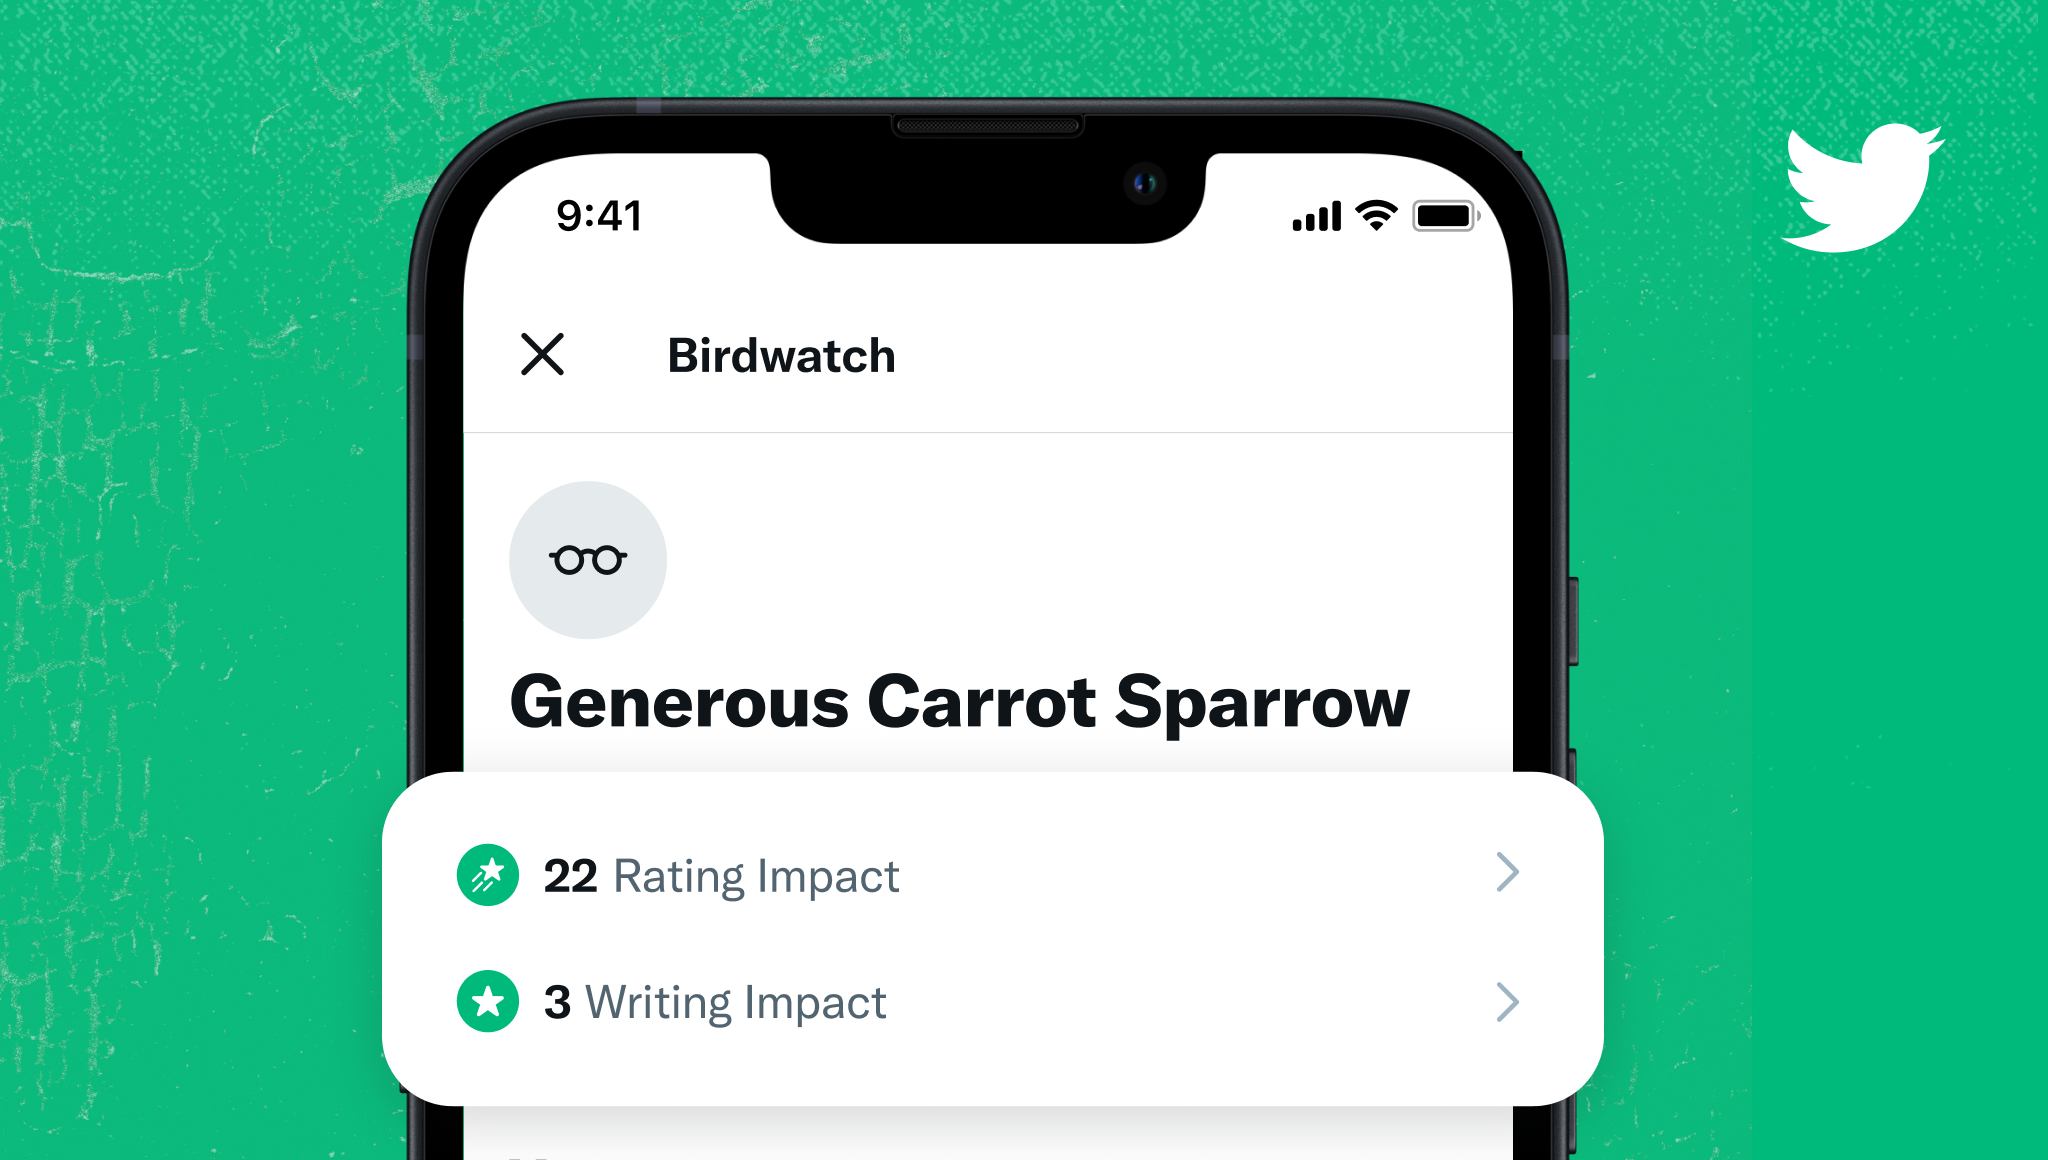
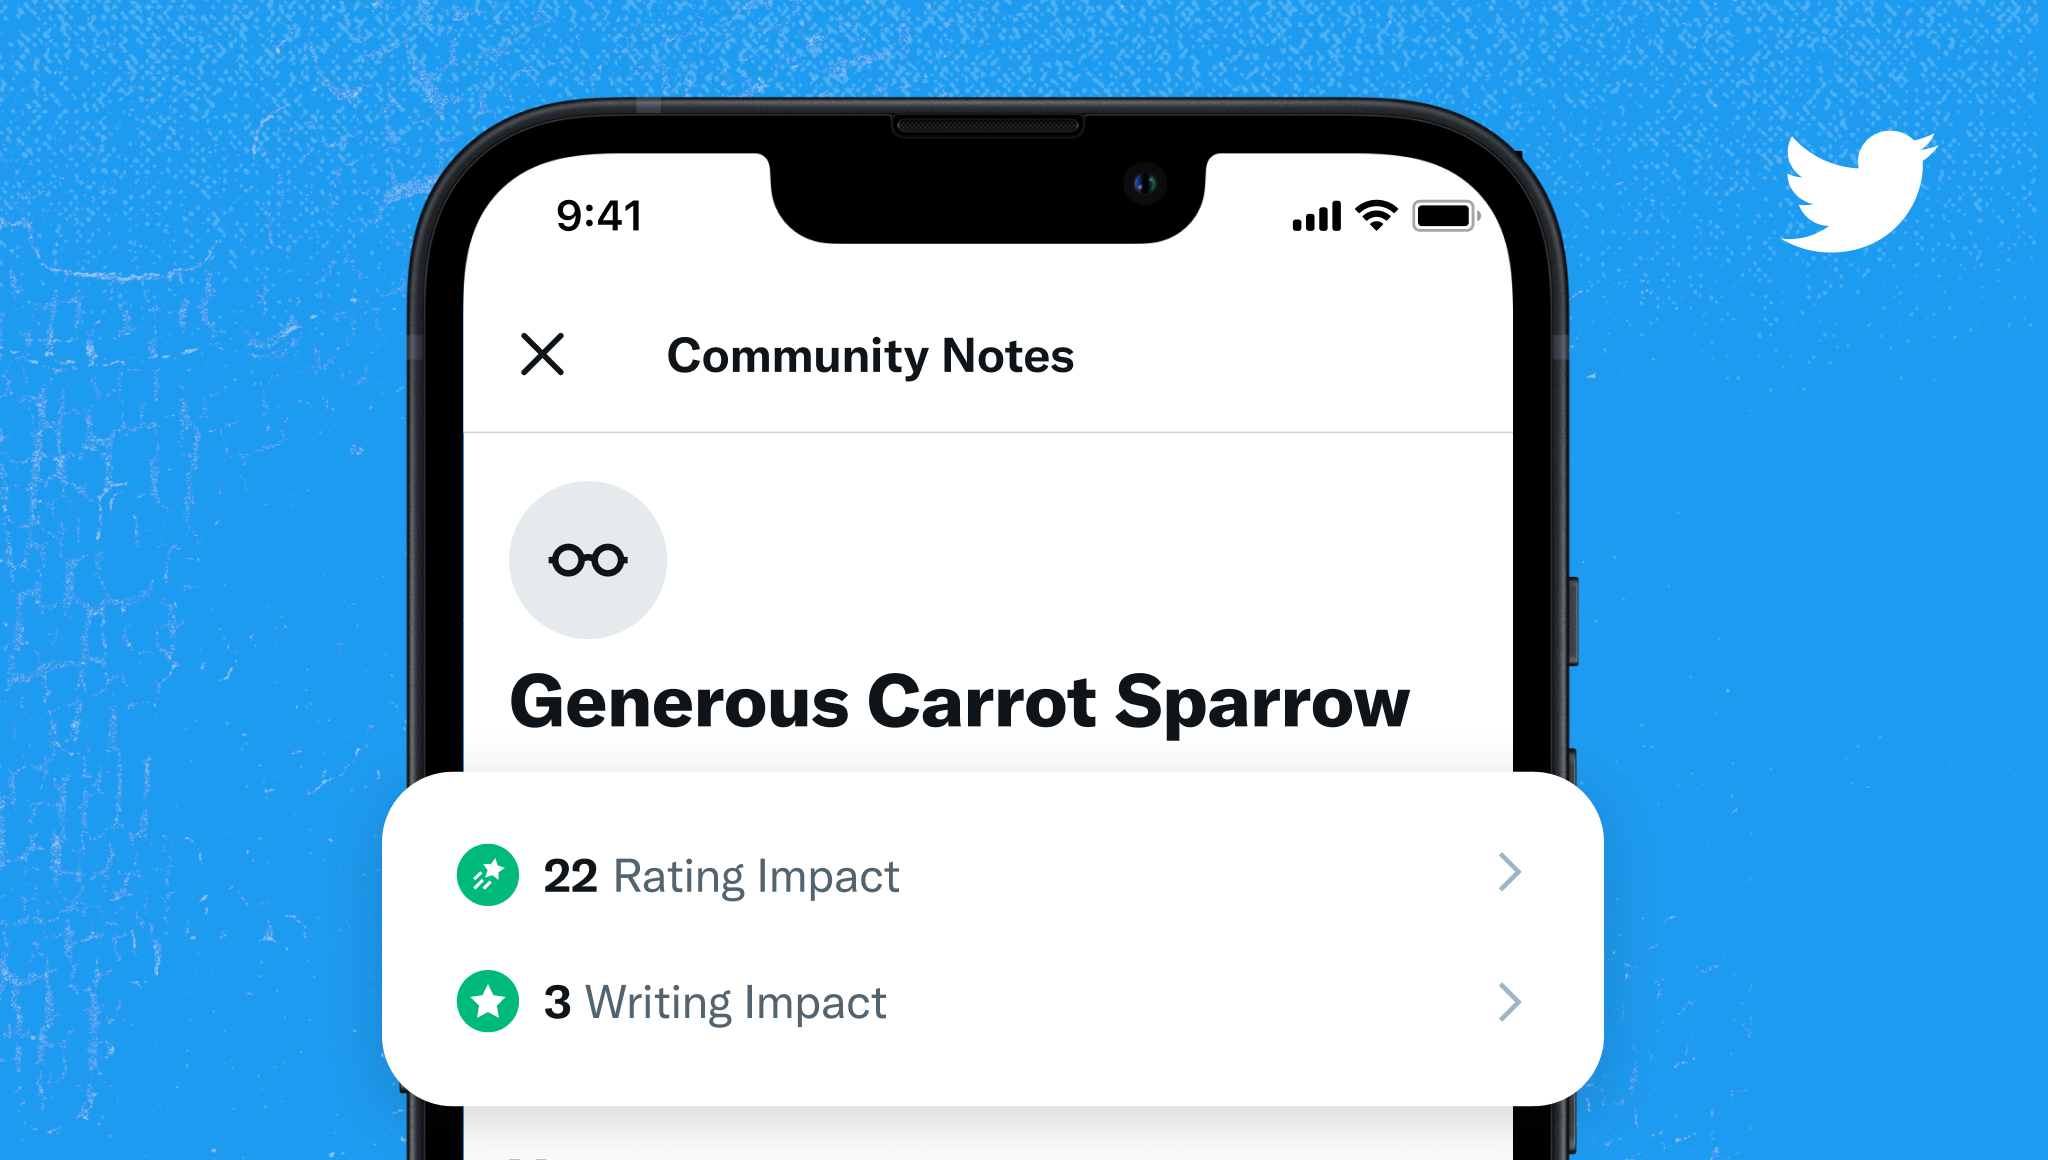
Update images with Community Notes name

diff --git a/content/notes-on-twitter.md b/content/notes-on-twitter.md
@@ -13,7 +13,7 @@ aliases:
 
 Community Notes' goal is to show helpful context to people when they come across potentially misleading information on Twitter. When a note is rated Helpful by contributors, it starts being shown directly on the Tweet. During this pilot phase, only a limited group of people in the US can see these notes, but our goal is to eventually show them to everyone. Here's how they show up:
 
-{{< figure src="../images/notes-on-twitter-specific.png">}}
+{{< figure src="../images/help-rate-this-note-expanded.png">}}
 
 If a Tweet has a note that earned a status of Helpful after being rated by enough contributors then the note will be shown in a card on the Tweet, along with a button to rate the note.
 
@@ -43,7 +43,7 @@ Many Tweets are seen by most people who will see them in a matter of hours. Note
 
 ### Notes on Tweets only visible to contributors
 
-{{< figure src="../images/notes-on-twitter-count.png">}}
+{{< figure src="../images/help-rate-this-note.png">}}
 
 If a Tweet has notes but none yet have earned a status of Helpful, the card will show the number of notes, and allow people to tap to read and rate those notes on the Community Notes site.
 

diff --git a/content/rating-notes.md b/content/rating-notes.md
@@ -16,7 +16,7 @@ Go to the [**Community Notes Home page**](https://birdwatch.twitter.com) and cho
 
 - **Rated Helpful:** Contains Tweets with at least one note rated helpful by the community.
 
-{{< figure src="../images/4-birdwatch-site.png">}}
+{{< figure src="../images/home.png">}}
 
 You can learn more about how Community Notes chooses notes for each of these views on the [**Note Ranking**](../note-ranking) page of the Guide.
 
@@ -24,7 +24,7 @@ You can learn more about how Community Notes chooses notes for each of these vie
 
 Community Notes contributors and people in limited test groups may also see cards to rate notes when browsing Twitter. You can tap to rate those notes.
 
-{{< figure src="../images/birdwatch-notes-on-twitter.png">}}
+{{< figure src="../images/notes-on-twitter.png">}}
 
 ## Note statuses
 

diff --git a/content/timeline-tabs.md b/content/timeline-tabs.md
@@ -7,7 +7,7 @@ geekdocToc: 1
 
 Community Notes participants are able to view three different tabs on the [Community Notes Home](http://birdwatch.twitter.com) page. Each tab contains different sets of Tweets in different orders. In order to appear in any of these tabs, a Tweet must have received at least 100 total likes plus Retweets.
 
-{{< figure src="../images/home-three-tabs.png">}}
+{{< figure src="../images/home.png">}}
 
 ### New
 
